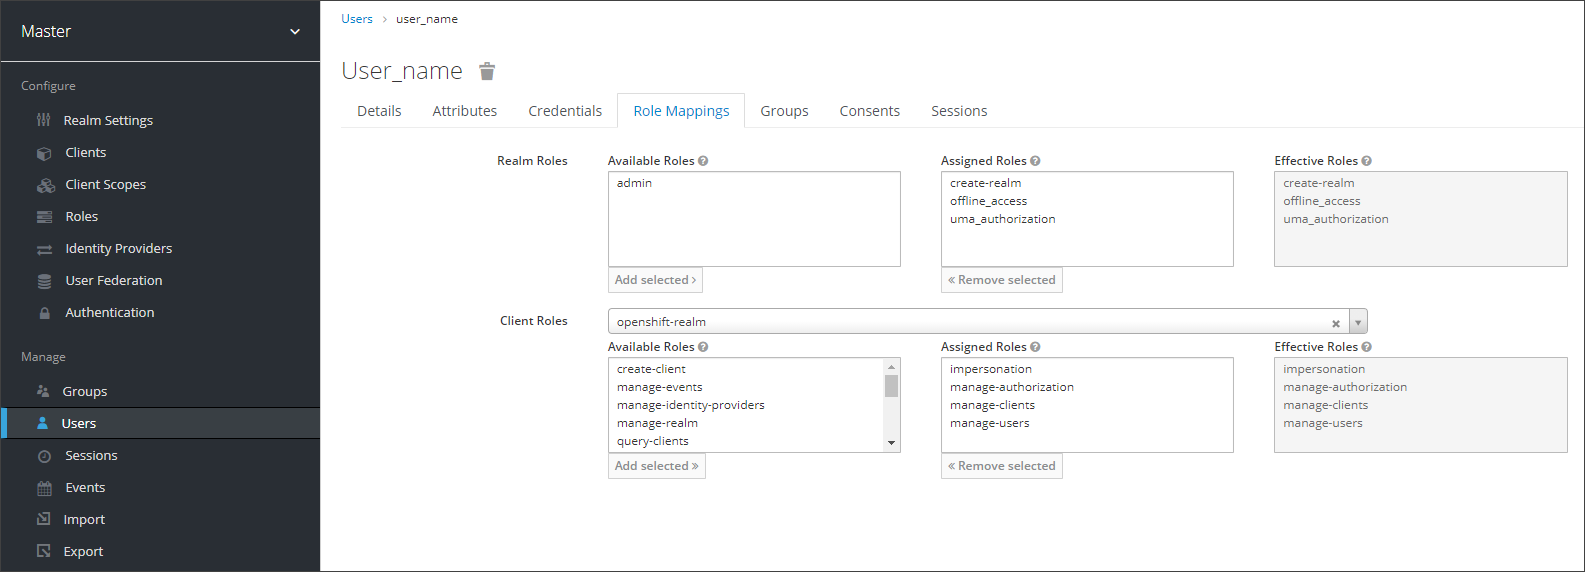
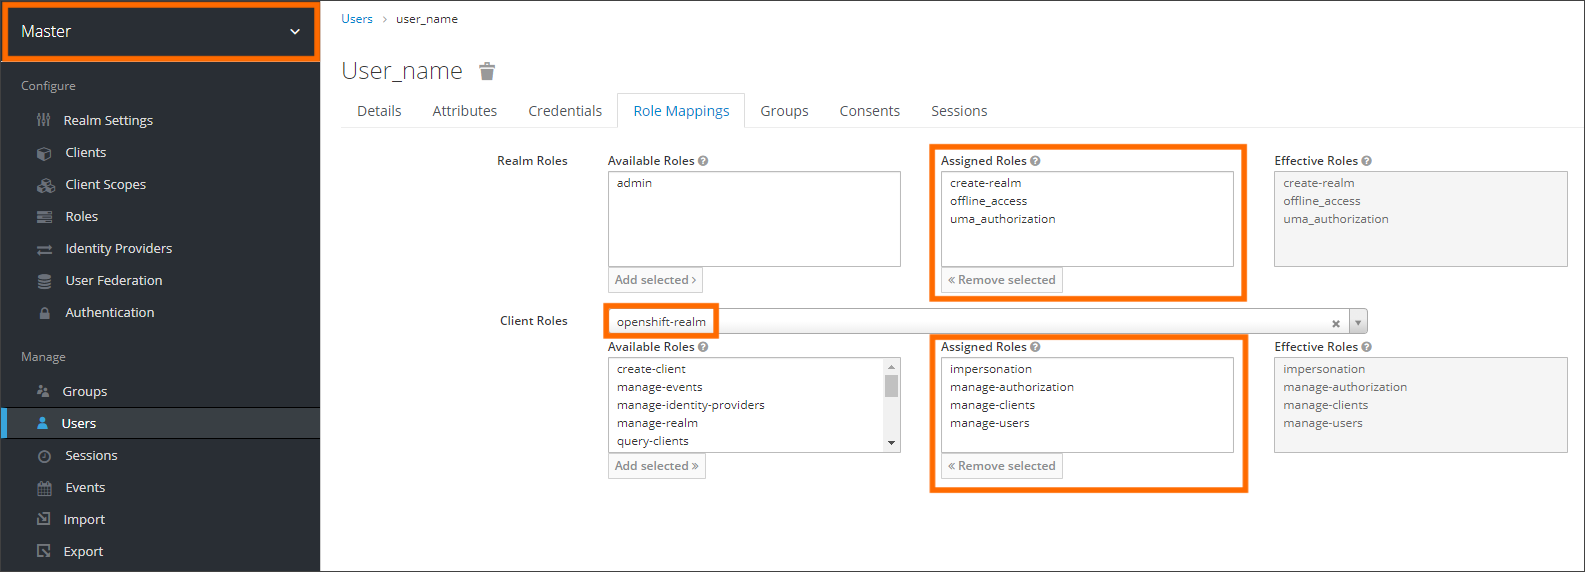
[EPMDEDP-6935]: Refactoring Keycloak install documentation

diff --git a/docs/operator-guide/install-keycloak.md b/docs/operator-guide/install-keycloak.md
@@ -4,9 +4,8 @@ Inspect the prerequisites and the main steps to perform for installing Keycloak 
 
 ## Prerequisites
 
-* Keycloak v.[13.0.1](https://www.keycloak.org/2021/05/keycloak-1301-released.html) should
-be used with EDP installation.
-* [Helm](https://helm.sh) is installed. Please refer to the [Helm Documentation](https://helm.sh/docs/) for details.
+* Kubectl version 1.18.0 is installed. Please refer to the [Kubernetes official website](https://v1-18.docs.kubernetes.io/docs/setup/release/notes/) for details.
+* [Helm](https://helm.sh) version 3.6.0 is installed. Please refer to the [Helm page](https://github.com/helm/helm/releases/tag/v3.6.0) on GitHub for details.
 
 !!! note
     EDP team is using a helm chart from the [codecentric](https://github.com/codecentric/helm-charts/tree/master/charts/keycloak)
@@ -16,38 +15,41 @@ be used with EDP installation.
 
 To install Keycloak, follow the steps below:
 
-1. Create a namespace to be used for the Keycloak deployment, e.g. security:
+1. Check that a security namespace is created. If not, run the following command to create it:
 
         kubectl create namespace security
-
 
 2. Add a chart repository:
 
         helm repo add codecentric https://codecentric.github.io/helm-charts
         helm repo update
 
+3. Create Keycloak admin secret:
 
-3. Install Keycloak v.13.0.1:
+        kubectl -n security create secret generic keycloak-admin-creds --from-literal=username=<keycloak_admin_username> --from-literal=password=<keycloak_admin_password>
 
-        helm install keycloak codecentric/keycloak \
-        --version 11.0.1 \
-        --set image.tag=13.0.1 \
-        --namespace security
+4. Install Keycloak v.13.0.1:
 
+  !!! info
+      The Keycloak can be deployed in a production ready mode (e.g. it can include multiple replicas, persistent storage, autoscaling, monitoring, etc.).
+      For details, please refer to the [Official Chart Documentation](https://github.com/codecentric/helm-charts/tree/master/charts/keycloak).
 
-4. Wait for the Keycloak URL to become accessible.
+  ---
+      helm install keycloak codecentric/keycloak \
+      --version 11.0.1 \
+      --set image.tag=13.0.1 \
+      --values values.yaml \
+      --namespace security
 
-!!! info
-    The Keycloak can be deployed in a production ready mode (e.g. it can include multiple replicas, persistent storage, autoscaling, monitoring, etc.).
-    For details, please refer to the [Official Chart Documentation](https://github.com/codecentric/helm-charts/tree/master/charts/keycloak).
+  Check out the *values.yaml* file sample of the Keycloak customization:
 
-Check out the *value.yaml* file sample of the Keycloak customization:
-
+<details>
+<summary><b>View: values.yaml</b></summary>
 
 ```yaml
 replicas: 1
 
-# start: create OpenShift realm which is required by edp
+# start: create OpenShift realm which is required by EDP
 extraInitContainers: |
   - name: realm-provider
     image: busybox
@@ -70,8 +72,6 @@ extraVolumes: |
   - name: realm
     emptyDir: {}
 
-args: -Dkeycloak.import=/realm/openshift.json
-# end
 extraEnv: |
   - name: PROXY_ADDRESS_FORWARDING
     value: "true"
@@ -94,14 +94,13 @@ ingress:
     kubernetes.io/ingress.class: nginx
     ingress.kubernetes.io/affinity: cookie
   rules:
-    - host: keycloak-security.example.com
+    - host: keycloak.example.com
       paths:
         - /
 
 resources:
   limits:
-    cpu: "1000m"
-    memory: "1024Mi"
+    memory: "2048Mi"
   requests:
     cpu: "50m"
     memory: "512Mi"
@@ -121,32 +120,37 @@ postgresql:
     storageClass: "gp2"
 ```
 
+</details>
+
 ## Configuration
 
-Follow the steps below to configure Keycloak:
+To prepare Keycloak for integration with EDP, follow the steps below:
 
-1. Ensure the "openshift" realm is created in Keycloak;
+1. Ensure that the "openshift" realm is created.
 
+2. Create a user in "Master" realm.
 
-2. Create a user in your Keycloak in "Master" realm;
-
+  !!! note
+      This user should be used by EDP to access Keycloak.
 
 3. In the "Role Mappings" tab, assign the proper roles to user:
 
-* for realm:
-  - create-realm,
+* Realm Roles:
 
-  - offline_access,
+  * create-realm,
 
-  - uma_authorization
+  * offline_access,
 
-* for openshift-realm client:
-  - impersonation,
+  * uma_authorization
 
-  - manage-authorization,
+* Client Roles "openshift-realm":
 
-  - manage-clients,
+  * impersonation,
 
-  - manage-users
+  * manage-authorization,
+
+  * manage-clients,
+
+  * manage-users
 
 ![keycloak-roles](../assets/operator-guide/keycloak-roles.png "keycloak-roles")
